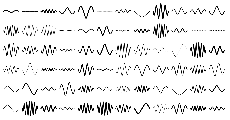
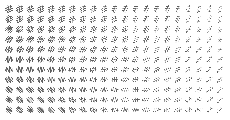
Fixed mapping, hue now rotates

diff --git a/glyph.js b/glyph.js
@@ -26,6 +26,8 @@ function Glyph() {
    *       - strokeUniform(100); // white
    */ 
   this.draw = function(values, size) {
+    angleMode(DEGREES);
+
     let hueValue = values[0];
     let satValue = values[1];
     let ligValue = values[2];
@@ -34,19 +36,22 @@ function Glyph() {
     let strokeW = map(ligValue,0,100,size/100,size/15);
     let tightness = map(ligValue,0,100,-2,0.8);
 
-    var bounding = new WaveBoundingSphere(hueValue,size);
+    var bounding = new WaveBoundingSphere(ligValue,size);
 
     translate(size/2,size/2);
 
-    noFill();
+    rotate(hueValue);
 
-    strokeWeight(1);
-    stroke(0);
-    console.log(10);
+    push();
+
+    noStroke();
+    fillUniform(90);
+
     //ellipse(0,0,size,size);
 
-    stroke(0);
-    curveTightness(tightness);
+    strokeUniform(40);
+    noFill();
+
     curveTightness(0.1);
     strokeWeight(strokeW);
 
@@ -67,12 +72,14 @@ function Glyph() {
     curveVertex(size/2,0);
     curveVertex(size/2,0);
     endShape();
+
+    pop();
   }
 
-function WaveBoundingSphere(h,size) {
-  this.height = map(h,0,360,-size,size);
+  function WaveBoundingSphere(h,size) {
+    this.height = map(h,0,100,0,size);
 
-  this.returnY = function(x,pos,strokeW) {
+    this.returnY = function(x,pos,strokeW) {
     var a = size/2;
     var b = this.height/2;
     var xPos = x;
@@ -80,10 +87,28 @@ function WaveBoundingSphere(h,size) {
     return((yP)*pos);
   
     //return((yP - strokeW)*pos);
+    }
+
+    this.returnMax = function(pos) {
+      return(this.height/2*pos);
+    }
   }
 
-  this.returnMax = function(pos) {
-    return(this.height/2*pos);
+  function Wave(h,size) {
+    this.height = map(h,0,100,0,size);
+
+    this.returnY = function(x,pos,strokeW) {
+    var a = size/2;
+    var b = this.height/2;
+    var xPos = x;
+    var yP = b*sqrt(1-((x*x)/(a*a)));
+    return((yP)*pos);
+  
+    //return((yP - strokeW)*pos);
+    }
+
+    this.returnMax = function(pos) {
+      return(this.height/2*pos);
+    }
   }
-}
 }

diff --git a/README.md b/README.md
@@ -2,12 +2,8 @@
 
 ### Color Glyphs
 
-Developed Sketch Two
+Further Development - Concept Two
 
-I have fleshed out my code for this design, with the wave now using a simplar code that also allows it to be a single line rather than the two lines that were mirrored beforehand.
+I have fixed the issues I had with the data not mapping in the clearest way, with the hue now determining a rotational value, this might be changed later as I am looking into trying to map it more efficiently.
 
-Upon looking at the code in random and gradient mode, it is clear that the mapping of values isnt as accurate as I had intiially percieved them to be, with a cyan colour appearing as a flat line, when initally black was meant to display like that.
-
-This should be a relativley easy fix, just a matter of switching the different inputs for each map and altering the limits slightly.
-
-
+From here I plan to explore aesthetic choices that aid in the communication of colour through the glyphs.
